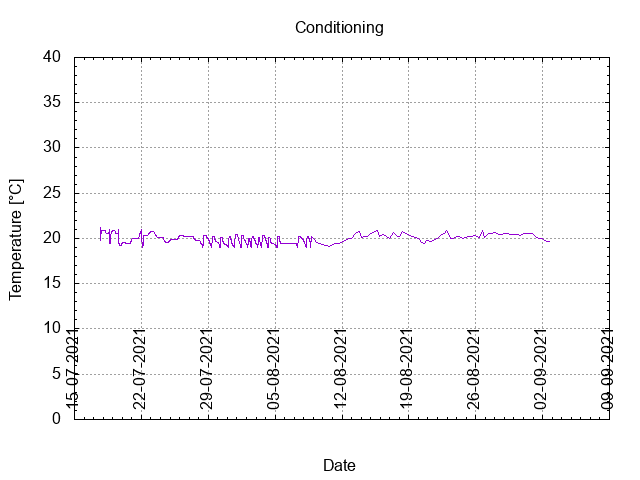
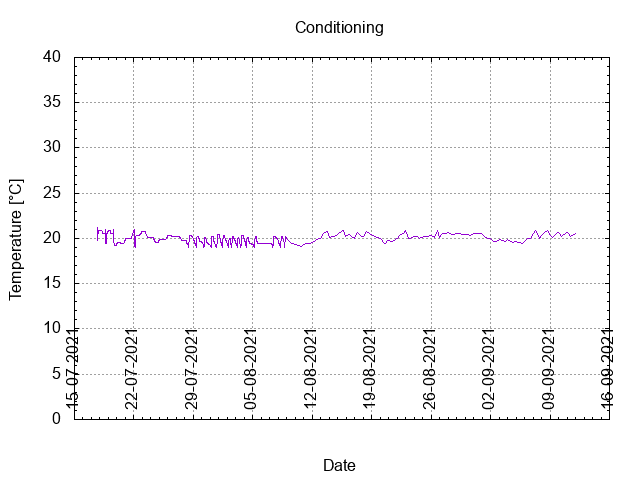
Updated batch 13.

diff --git a/docs/homebrewing/batches/batch_13/README.md b/docs/homebrewing/batches/batch_13/README.md
@@ -8,7 +8,7 @@
 
 17-07-2021 16:16 Start conditioning.
 
-Completed conditioning.
+11-09-2021 23:27 Completed conditioning.
 
 Archived.
 
@@ -60,7 +60,7 @@ Archived.
 |-----|------------|-----|-------|-------|
 |     | 04-07-2021 |   0 |       | Brew day. |
 |     | 17-07-2021 |  21 |       | Bottling day. |
-|   1 |            |     |       |  |
+|   1 | 23-09-2021 |  81 | 2.5   | Served at 11 C. Very sour, needs a sweetener or two. |
 |   2 |            |     |       |  |
 |   3 |            |     |       |  |
 |   4 |            |     |       |  |
